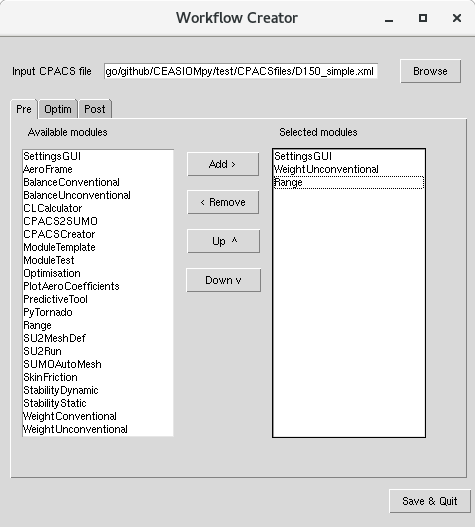
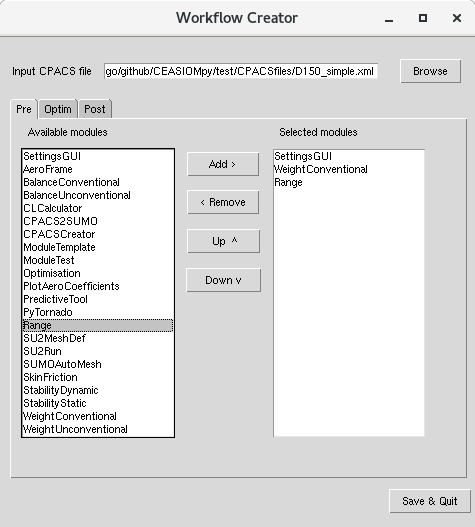
Minor changes in doc and gui

diff --git a/ceasiompy/SettingsGUI/settingsgui.py b/ceasiompy/SettingsGUI/settingsgui.py
@@ -586,8 +586,8 @@ def create_settings_gui(cpacs_path, cpacs_out_path, submodule_list):
                 max_inputs = max(max_inputs,len(inputs))
 
     tot_width = max(415, gui_modules * 82)
-    tot_height = max(330, max_inputs * 52)
-    root.geometry('{}x{}+400+50'.format(tot_width,tot_height))
+    tot_height = max(330, max_inputs * 50)
+    root.geometry('{}x{}+400+150'.format(tot_width,tot_height))
 
     my_setting_gui = SettingGUI(root, cpacs_path, cpacs_out_path, submodule_list)
     my_setting_gui.mainloop()

diff --git a/ceasiompy/WorkflowCreator/workflowcreator.py b/ceasiompy/WorkflowCreator/workflowcreator.py
@@ -261,7 +261,7 @@ def create_wf_gui():
 
     root = tk.Tk()
     root.title('Workflow Creator')
-    root.geometry('475x490+400+100')
+    root.geometry('475x490+400+300')
     my_gui = WorkFlowGUI()
     my_gui.mainloop()
     disg = my_gui.Options

diff --git a/doc/source/user_guide/getting_started.rst b/doc/source/user_guide/getting_started.rst
@@ -27,15 +27,16 @@ The module 'WorkflowCreator' can be found at /CEASIOMpy/ceasiompy/WorkflowCreato
 
 
 When you run this module, a GUI will appear. The first thing to do is to chose the CPACS file we will use for this analysis, click on "Browse" and select "D150_simple.xml", it is a test aircraft similar to an A320 . Then, we will have the possibility to chose which module to run and in which order. For this first test case, we will use only the tab "Pre". On the left you will see the list of all available modules, when you select one you can add it to the list of module to execute. You can also remove module from this list or change the order with the buttons.
-We will create a simple workflow with only three modules: SettingsGUI -> WeightConventional -> Range. Once you added these three modules in order you can click "Save & Quit".
+We will create a simple workflow with only three modules:
+
+SettingsGUI -> WeightConventional -> Range.
 
 .. figure:: getting_started_fig/TestCase1_WorkflowCreator.png
     :width: 400 px
     :align: center
     :alt: CEASIOMpy - WorkflowCreator - Test case 1
 
-
-The first module to run will be "SettingsGUI", it will show you all the available options for the next modules. All the options are pre-filled with default values. You don't need to change any value for this example, so you can just click "Save & Quit".
+Once you added these three modules in order you can click "Save & Quit". The first module to run will be "SettingsGUI", it will show you all the available options for the next modules. All the options are pre-filled with default values. You don't need to change any value for this example, so you can just click "Save & Quit".
 The two next modules will be executed automatically without showing anything except some results in the terminal.
 
 
@@ -47,14 +48,27 @@ As in test case 1, we will run 'WorkflowCreator'. In the GUI, after selecting th
 
 CPACSCreator -> SettingsGUI -> PyTornado -> PlotAeroCoefficients
 
+.. figure:: getting_started_fig/TestCase2_WorkflowCreator.png
+    :width: 400 px
+    :align: center
+    :alt: CEASIOMpy - WorkflowCreator - Test case 2
+
 Then, you can click "Save & Quit". The first module to be executed will be CPACSCreator, with this module you can modify the geometry of the aircraft. We won't made changes now, but if you want to learn how to use CPACSCreator, you can follow the link bellow:
 
 https://dlr-sc.github.io/tigl/doc/cpacscreator-0.1/tuto.html#tuto_create_from_scratch
 
-If you apply some changes, save your modifications and close the CPACSCreator windows. Now, the SettingsGUI windows will appear, and first, we will import a new AeroMap. You and click on the 'aeromap_empty' and delete it with the buttons. Now, click on 'Import CSV' to add a new AeroMap, select 'Aeromap_4points_aoa.csv' and 'OK'. You must click on the button 'Update' to make this AeroMap available for all the module.
+If you apply some changes, save your modifications and close the CPACSCreator windows. Now, the SettingsGUI windows will appear, and first, we will import a new AeroMap.  Now, click on 'Import CSV' to add a new AeroMap, select 'Aeromap_4points_aoa.csv' and 'OK'.
+
+.. figure:: getting_started_fig/TestCase2_ImportAeroMap.png
+    :width: 400 px
+    :align: center
+    :alt: CEASIOMpy - Import AeroMap - Test case 2
+
+You can also click on the 'aeromap_empty' and delete it with the buttons. You must click on the button 'Update' to make the new AeroMap available for all modules.
 
 Now, you can click on the 'PyTornado' Tab, the AeroMap selected should be the one you imported before. We will not change the other option and just click 'Save & Quit'.
-The software should run for a few seconds and when the calculation are done, a plot of the aerodynamic coeficient should appear.
+
+The software should run for a few seconds and when the calculation are done, a plot of the aerodynamic coefficient should appear.
 
 
 Test Case 3 : SU2 at fixed CL and Range
@@ -86,14 +100,16 @@ The optimisation will create a new directory in the WKDIR folder and each iterat
 With RCE:
 ---------
 
-To run the following workflow you need to have a running version of RCE with the CEASIOMpy module installed. For more information check out ...
+To run the following workflow you need to have a running version of RCE with the CEASIOMpy module installed. For more information check out the Step 3 of the installation page.
 
 Test Case 1 : Simple workflow
 *****************************
 
+We will create a simple workflow which contains a CPACS input and three modules.
 
 CPACS input -> SettingsGUI -> WeightConventional -> Range
 
+Your workflow should look like that:
 
 .. figure:: CEASIOMpy_RCE_TC1.png
     :width: 630 px
